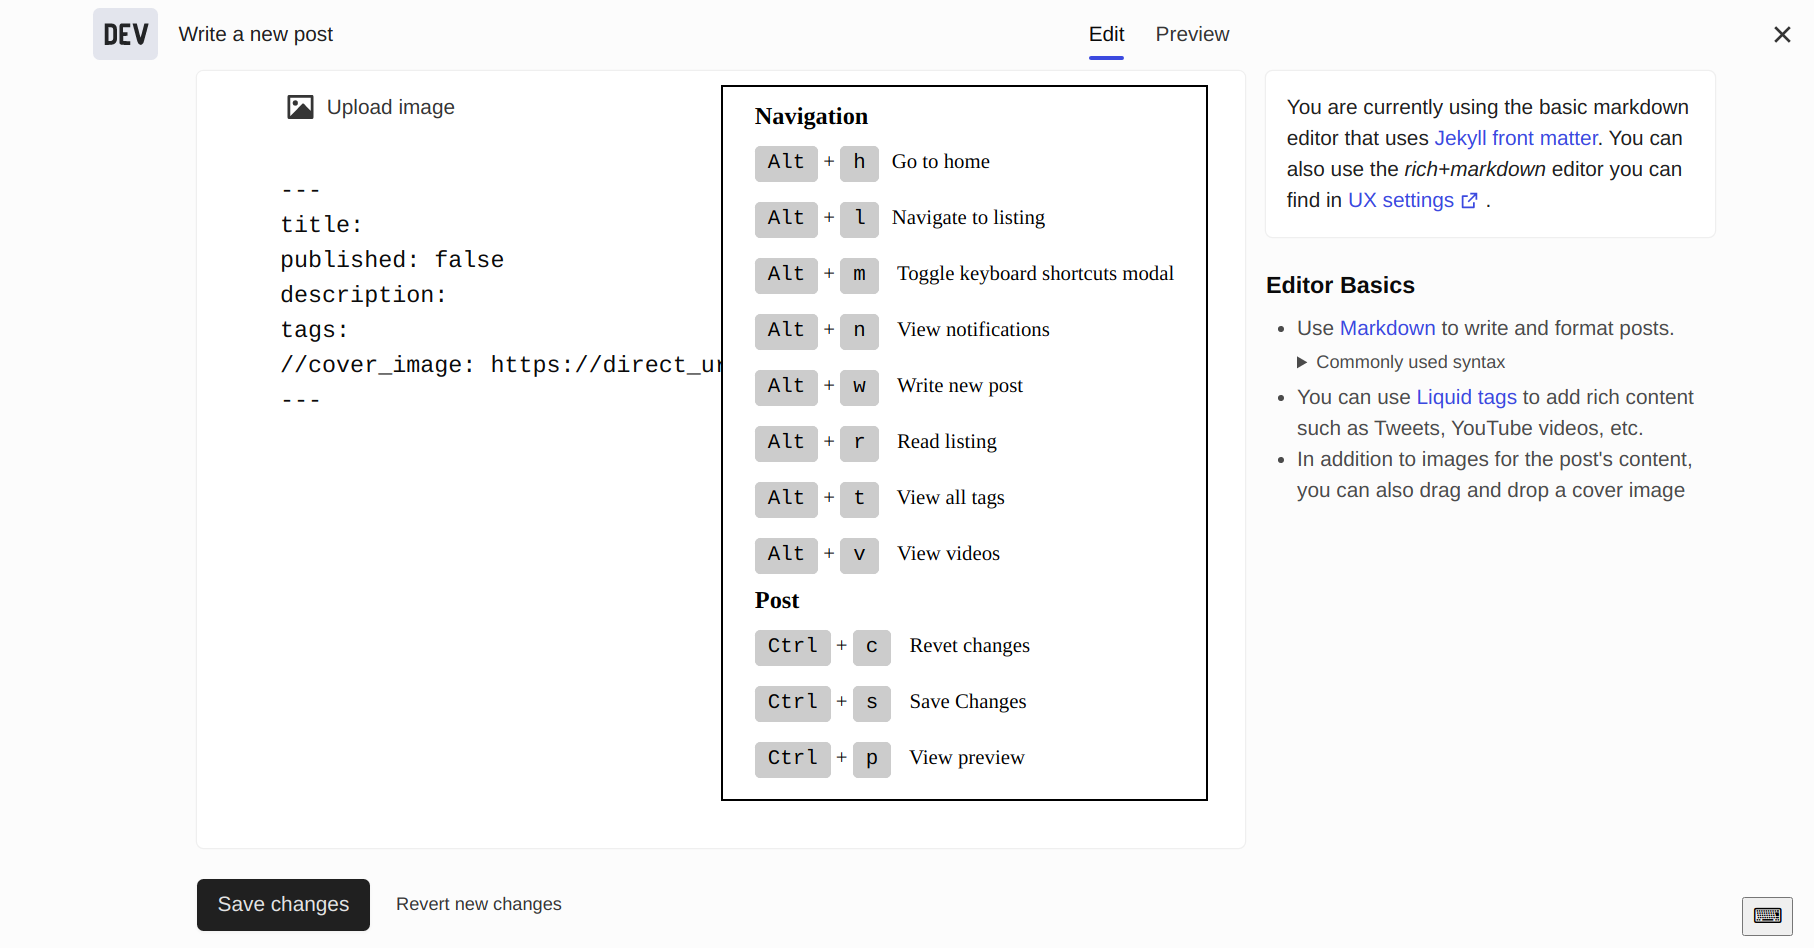
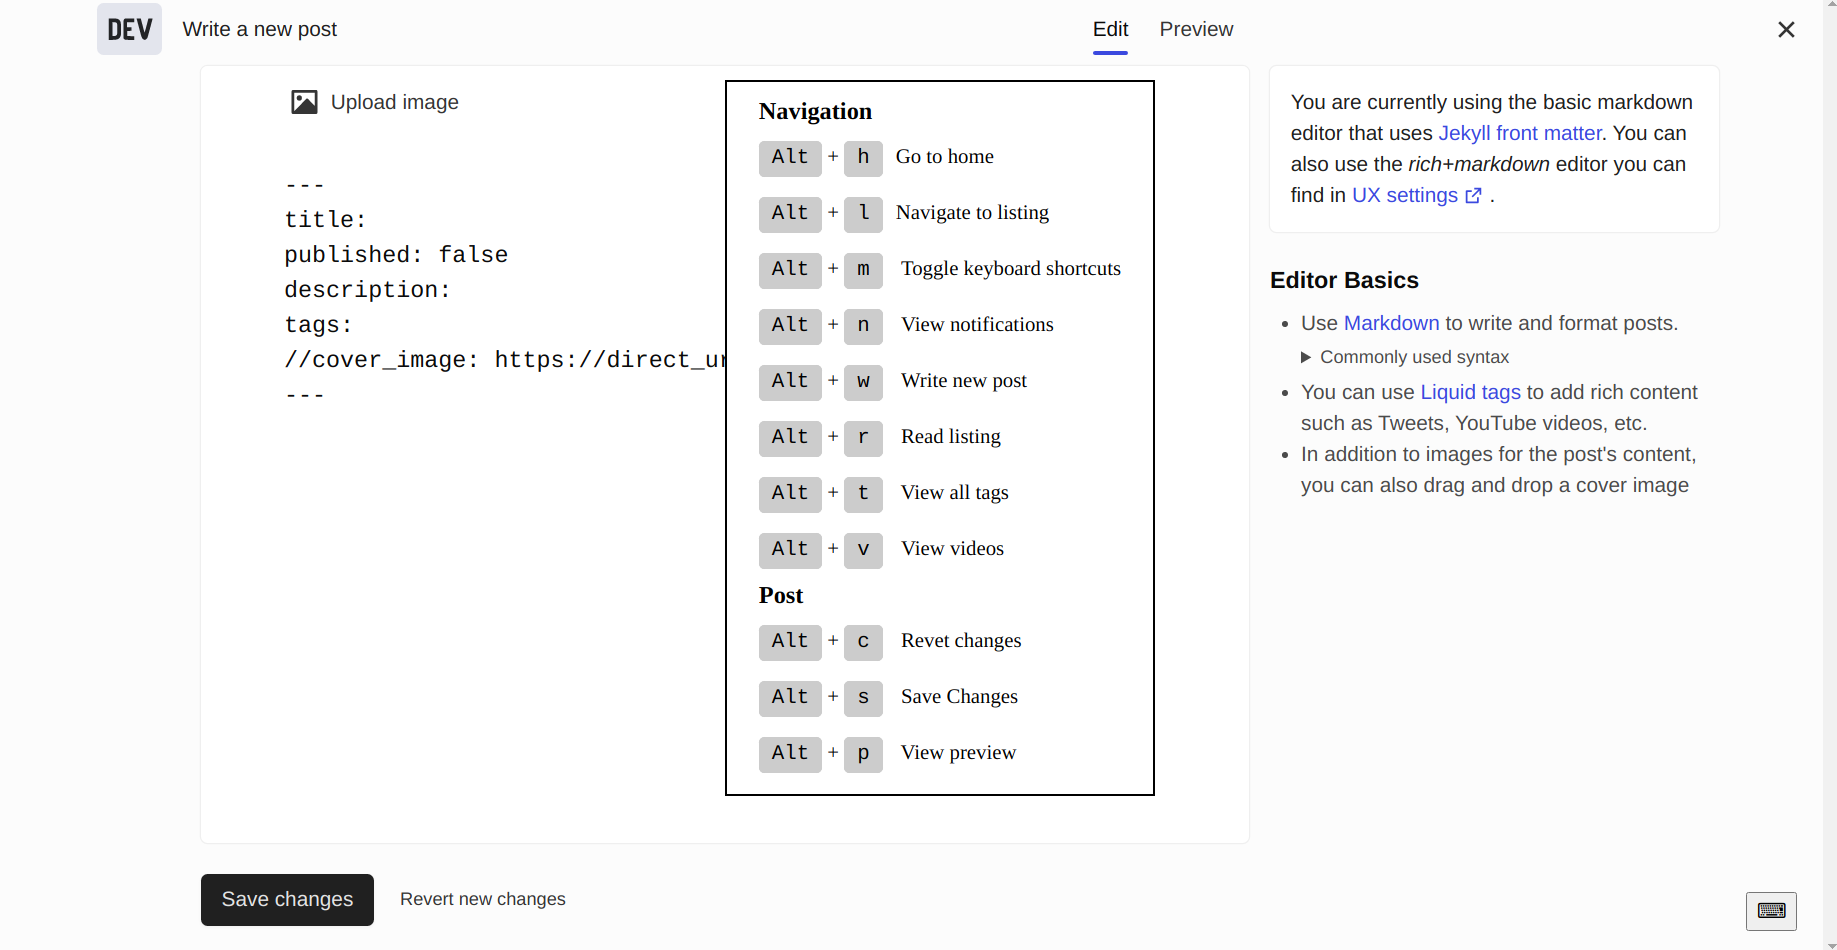
Change ctrl to alt

diff --git a/keyboard.js b/keyboard.js
@@ -64,13 +64,13 @@ const toggleModal = () => {
          <h3>Post</h3>
          <ul class="keyboard-shortcuts">
           <li>
-           <kbd>Ctrl</kbd> + <kbd>c</kbd><span> Revet changes</span>
+           <kbd>Alt</kbd> + <kbd>c</kbd><span> Revet changes</span>
           </li>
           <li>
-           <kbd>Ctrl</kbd> + <kbd>s</kbd><span> Save Changes</span>
+           <kbd>Alt</kbd> + <kbd>s</kbd><span> Save Changes</span>
           </li>
           <li>
-          <kbd>Ctrl</kbd> + <kbd>p</kbd><span> View preview</span>
+          <kbd>Alt</kbd> + <kbd>p</kbd><span> View preview</span>
          </li>
          </ul>
         `;
